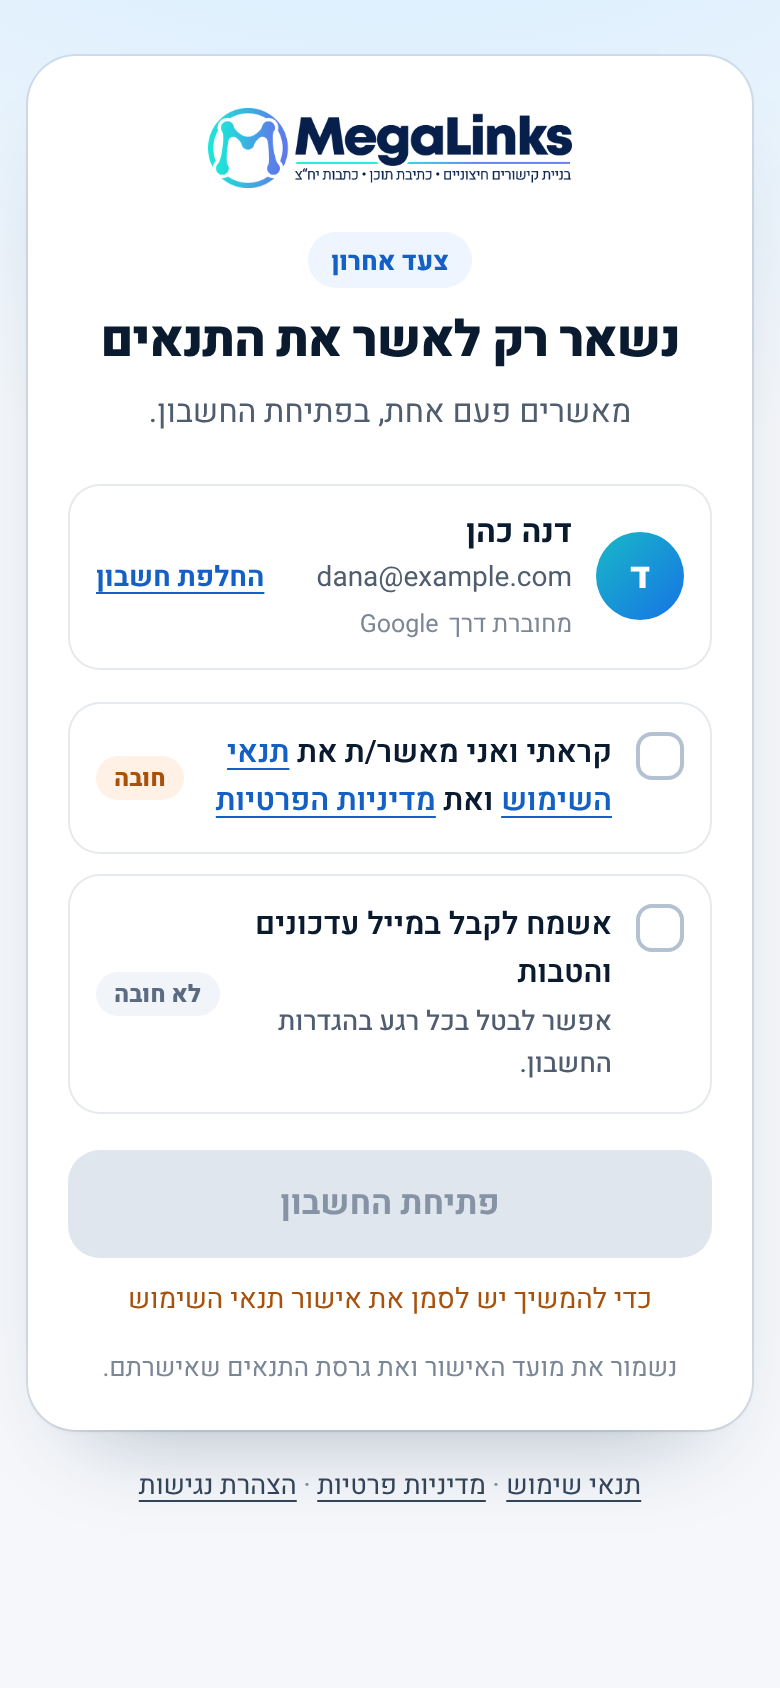
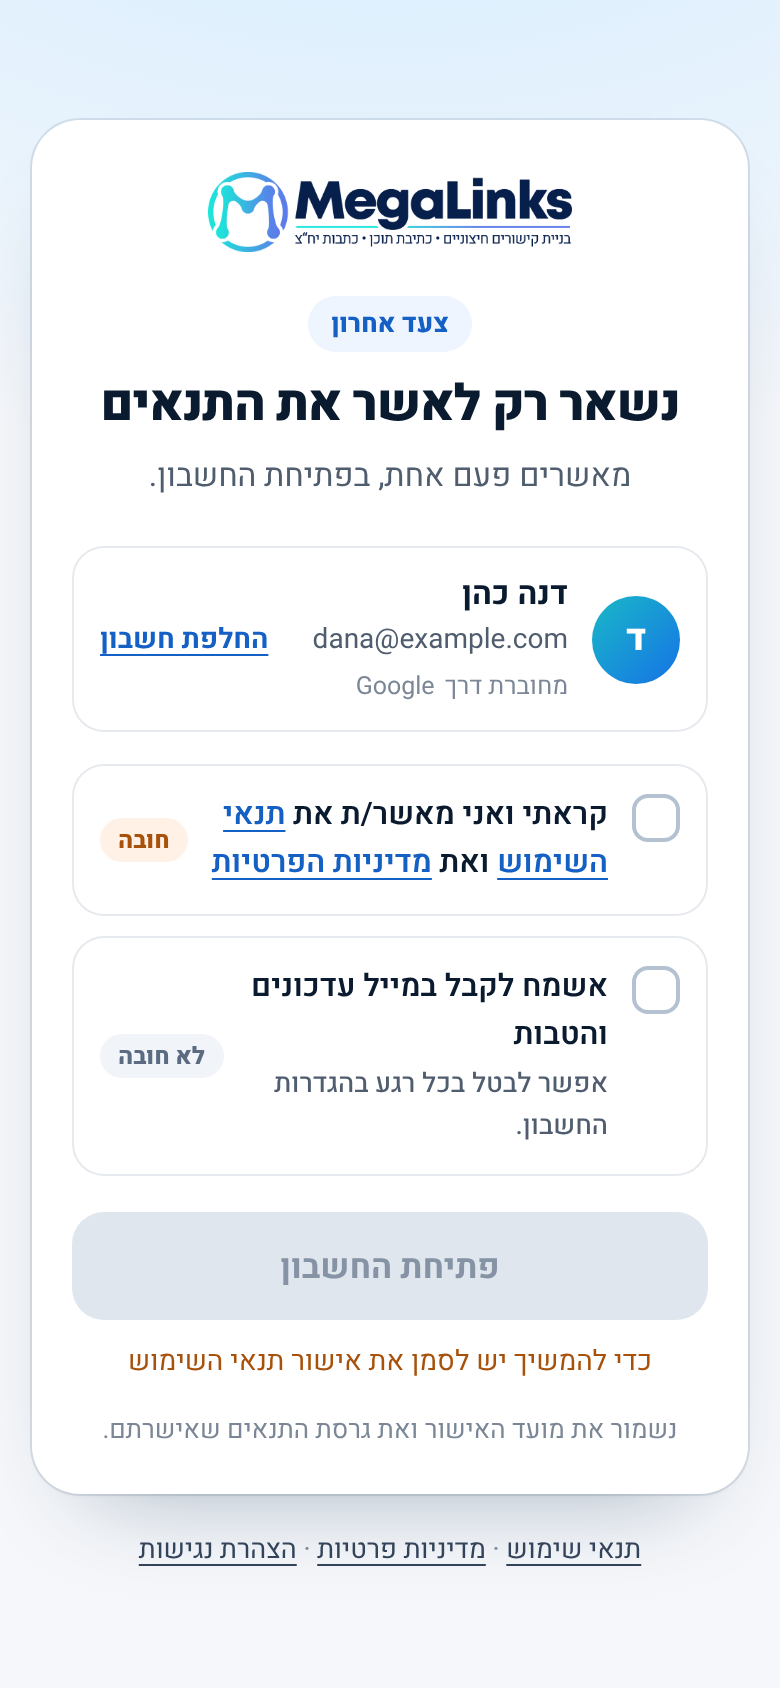
Login mockup: card centred on the phone screen
Claude-Session: https://claude.ai/code/session_01Sap3HApvqdgE7fnyatFJMA

Changed region(s): [[0.0308, 0.0308, 0.9846, 0.9242], [0.1538, 0.5853, 0.2462, 0.6469]]

diff --git a/design/login-screen/mockup.html b/design/login-screen/mockup.html
@@ -9,7 +9,7 @@
 :root{--ink:#0b1b2f;--muted:#4f5d6e;--faint:#7b8796;--line:rgba(11,40,80,.1);--blue:#1673e6;--blue-ink:#1460c4;--green:#1d7d45;--ease:cubic-bezier(.32,.72,0,1)}
 *{box-sizing:border-box}
 html,body{margin:0}
-body{min-height:100vh;display:flex;flex-direction:column;align-items:center;justify-content:center;gap:18px;padding:40px 16px;background:radial-gradient(900px 420px at 50% -8%,#d8eeff 0,transparent 70%),#f5f7fa;color:var(--ink);font-family:Heebo,Arial,sans-serif;-webkit-font-smoothing:antialiased}
+body{min-height:100vh;min-height:100svh;display:flex;flex-direction:column;align-items:center;justify-content:center;gap:18px;padding:40px 16px;background:radial-gradient(900px 420px at 50% -8%,#d8eeff 0,transparent 70%),#f5f7fa;color:var(--ink);font-family:Heebo,Arial,sans-serif;-webkit-font-smoothing:antialiased}
 .card{width:100%;max-width:440px;background:#fff;border-radius:28px;box-shadow:0 0 0 1px var(--line),0 1px 2px #0b28500a,0 24px 48px -30px #0b285066;padding:30px 30px 26px}
 .logo{display:flex;justify-content:center;margin-bottom:22px}.logo img{height:40px;width:auto}
 h1{margin:0;text-align:center;font-size:27px;font-weight:850;letter-spacing:-.02em;line-height:1.2;text-wrap:balance}
@@ -47,7 +47,7 @@ h1{margin:0;text-align:center;font-size:27px;font-weight:850;letter-spacing:-.02
 .hint{margin:10px 0 0;text-align:center;font-size:14px;color:#a8510a}.hint.ok{color:var(--green)}
 .note{margin:14px 0 0;text-align:center;font-size:13px;line-height:1.5;color:var(--faint)}
 [hidden]{display:none!important}
-@media(max-width:480px){body{justify-content:flex-start;padding:28px 14px}.card{padding:26px 20px 22px;border-radius:24px}h1{font-size:25px}}
+@media(max-width:480px){body{justify-content:center;padding:24px 16px calc(24px + env(safe-area-inset-bottom));min-height:100svh}.card{padding:26px 20px 22px;border-radius:24px}h1{font-size:25px}}
 @media(prefers-reduced-motion:reduce){*{transition:none!important}}
 </style>
 </head>
